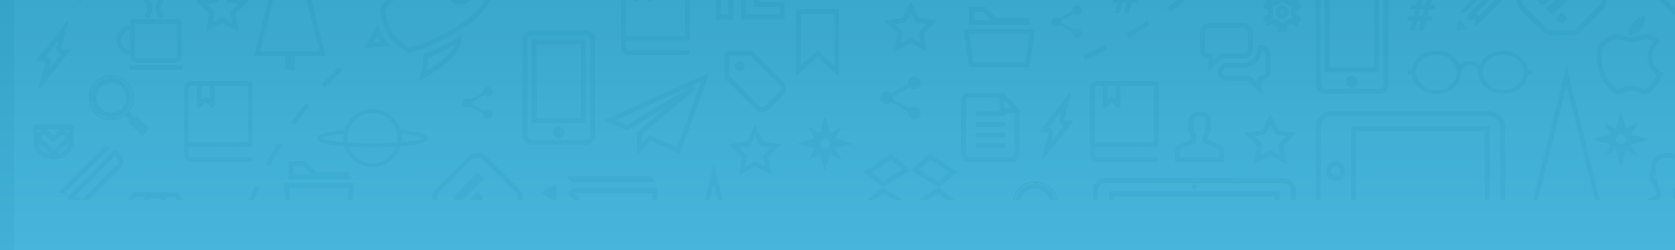
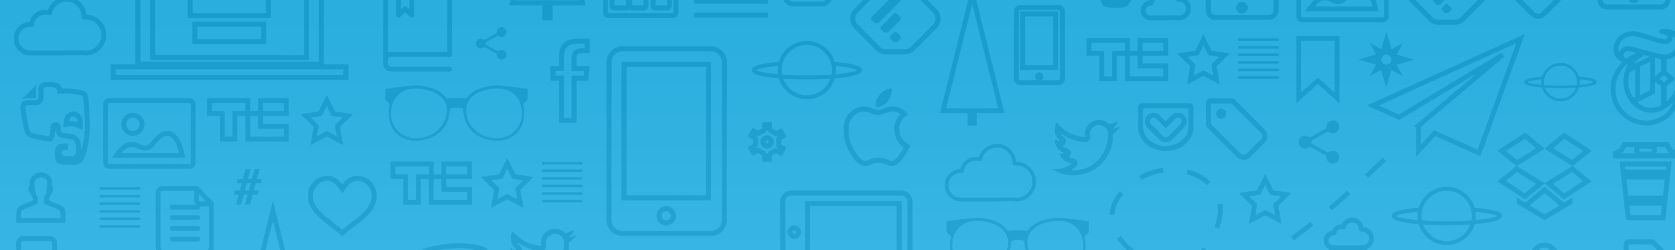
update

diff --git a/css/xceptance.less b/css/xceptance.less
@@ -1530,7 +1530,7 @@ table {
 
 	#teaser {
 		.teaser-image {
-			background: url(/images/teasers/xceptance-text.jpg) fixed center @navBarHeight no-repeat #695961;
+			background: url(/images/teasers/news.png) fixed center @navBarHeight no-repeat #695961;
 		}
 	}
 
